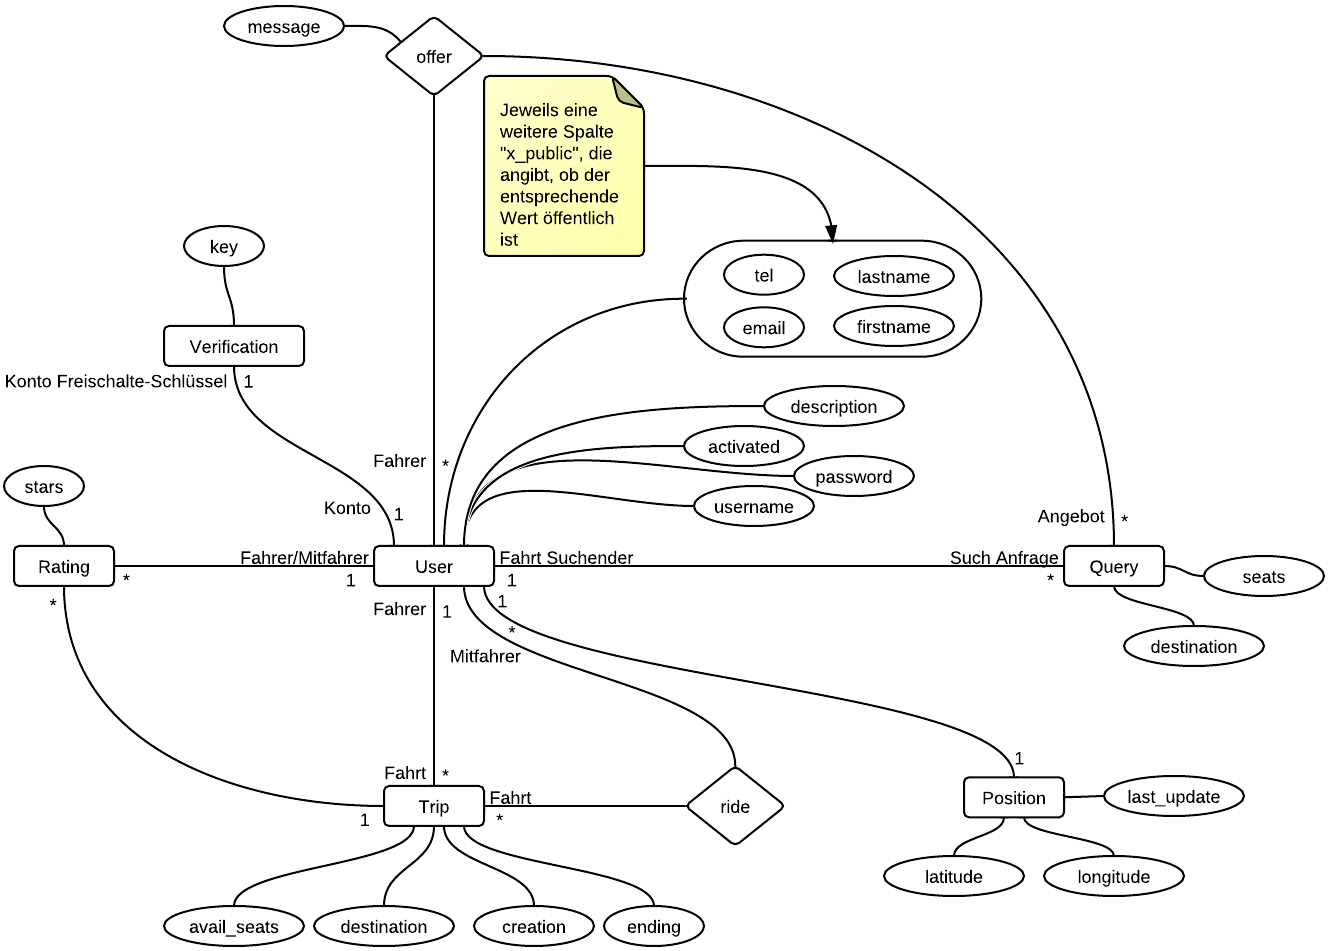
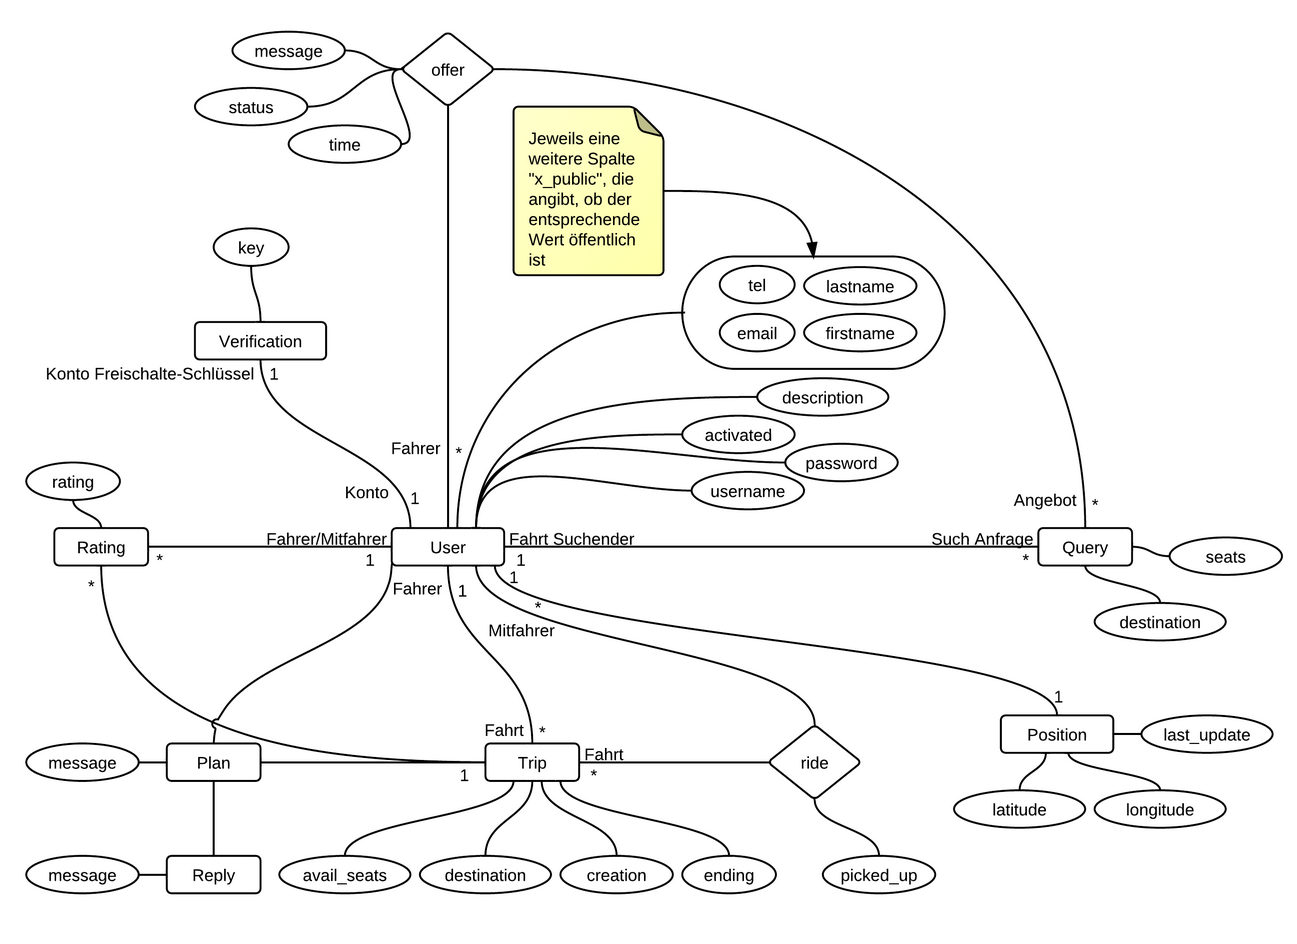
Edited vHike's database ER diagram and web service's design refs #792

diff --git a/documentation/vHike/webservice/design.html b/documentation/vHike/webservice/design.html
@@ -61,7 +61,7 @@
       </p>
       -->
       <p>    
-        <img src="./db-layout.png" alt="Database Layout" style="width:100%">
+        <a href="./db-layout.png" target="_blank"><img src="./db-layout.png" alt="Database Layout" style="width:100%"></a>
       </p>
       
       <h2 id="database_refavtor">Geplante Änderungen</h2>
@@ -1976,6 +1976,42 @@ der Fahrer gerade keine Fahrt anbietet,  <code>no_query_found</code>  wenn es ke
       </table>
       
             
+      <h3 id="interface_trip_post">Fahrt vorabplanen</h3>
+      <table>
+        <tr>
+          <th class="left">PHP-Skript</th>
+          <td>trip_post.php <a href="#star">*</a></td>
+        </tr> 
+        <tr>
+          <th class="left">Beschreibung</th>
+          <td>Ein Fahrer möchte eine neue Fahrt planen. Dieser Skript veröffentlicht die Fahrt, somit andere Benutzer für eine Mitfahrgelegenheit anfragen können.</td>
+        </tr>   
+        <tr>
+          <th class="left">Zugriffsrecht</th>
+          <td>Angemeldete Benutzer</td>
+        </tr> 
+      </table>
+      
+
+      <h3 id="interface_trip_reply">Anfrage für eine vorabgeplannte Fahrt erstellen</h3>
+      <table>
+        <tr>
+          <th class="left">PHP-Skript</th>
+          <td>trip_reply.php <a href="#star">*</a></td>
+        </tr> 
+        <tr>
+          <th class="left">Beschreibung</th>
+          <td>Ein Mitfahrer möchte eine neue Fahrt planen</td>
+        </tr>   
+        <tr>
+          <th class="left">Zugriffsrecht</th>
+          <td>Angemeldete Benutzer</td>
+        </tr> 
+      </table>
+      
+
+      <p>&nbsp;</p>
+      <p><a id="star"></a>* Siehe PHPDoc für genaue Beschreibung der Parametern und Rückgaben</p>
       <h1 id="versions">Versionshistorie</h1> 
       
       <h3>Version 1.2 (22.01.2012)</h3>
